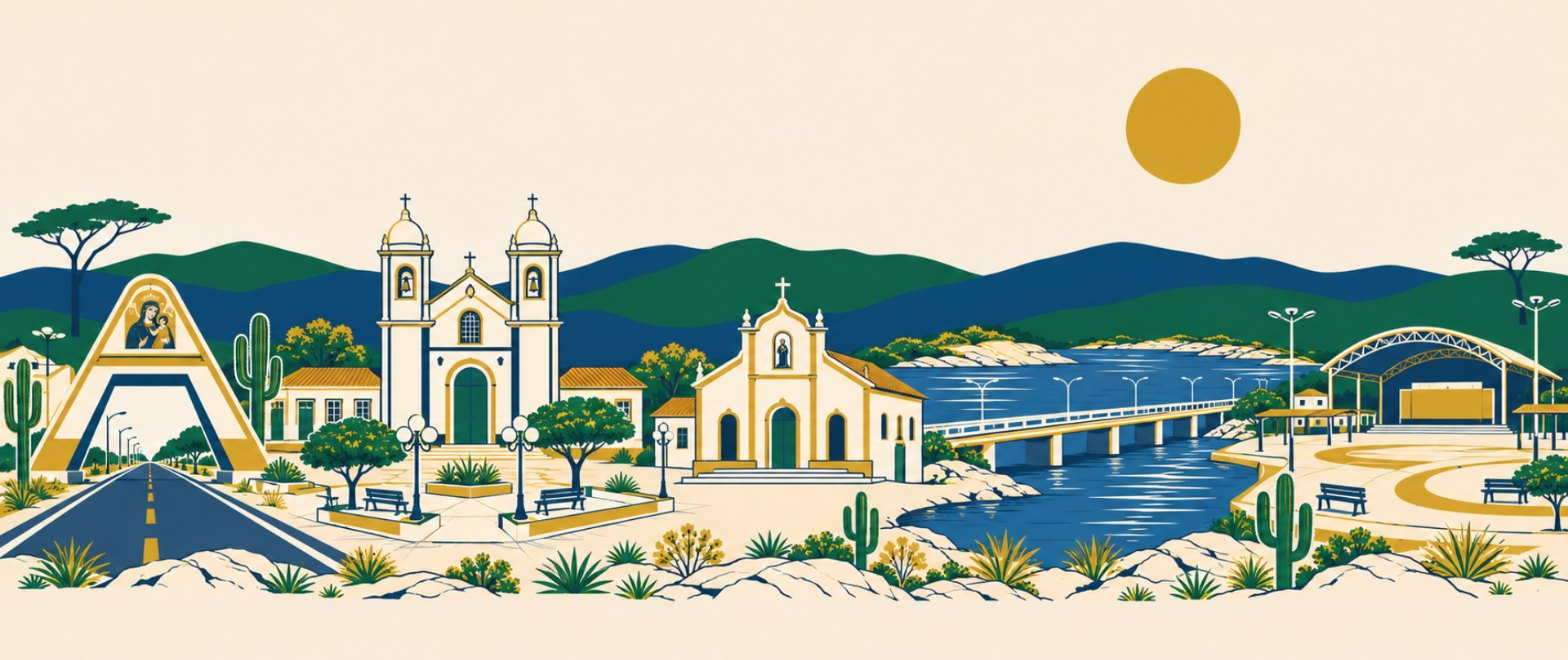
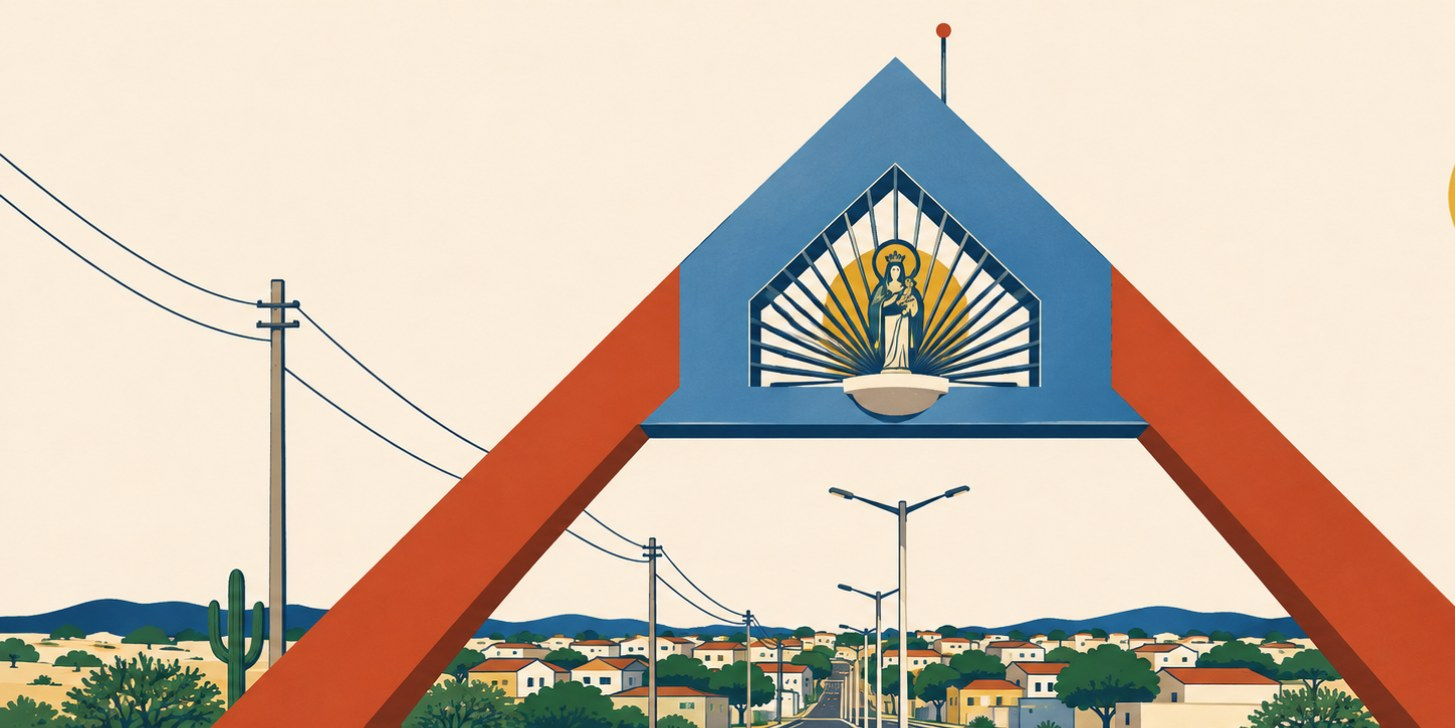
Capa: Arco da Santa
Claude-Session: https://claude.ai/code/session_01JV9M38XNXsCytRdJvPnJiu

diff --git a/assets/app.js b/assets/app.js
@@ -234,7 +234,7 @@
       <h1>O dinheiro é público.<span>A informação também.</span></h1>
       <p class="lead">${esc(X.intro)}</p>
       <div class="btns"><a class="btn solid" href="#/casos">Ver todos os casos</a><a class="btn" href="#/noticias">Notícias e análises</a><a class="btn azul" href="#/denuncie">Envie uma denúncia</a></div>
-      </div><div class="c5 heroart">${M ? '' : `<figure class="capa"><img src="img/cenas/capa-acopiara.jpg" alt="Ilustração de Acopiara: Arco da Santa, Igreja Matriz do Perpétuo Socorro, Igreja de São Francisco, Barragem Dr. Tibúrcio Soares e Polo de Lazer" width="1568" height="660"><figcaption>Arco da Santa · Matriz do Perpétuo Socorro · São Francisco · Barragem Dr. Tibúrcio Soares · Polo de Lazer</figcaption></figure>`}</div></div>${M ? `<div class="heroart m"><figure class="capa"><img src="img/cenas/capa-acopiara.jpg" alt="Ilustração de Acopiara: Arco da Santa, Igreja Matriz do Perpétuo Socorro, Igreja de São Francisco, Barragem Dr. Tibúrcio Soares e Polo de Lazer" width="1568" height="660"><figcaption>Arco da Santa · Matriz do Perpétuo Socorro · São Francisco · Barragem Dr. Tibúrcio Soares · Polo de Lazer</figcaption></figure></div>` : ''}
+      </div><div class="c5 heroart">${M ? '' : `<figure class="capa"><img src="img/cenas/capa-acopiara.jpg?v=13" alt="Ilustração do Arco da Santa, entrada de Acopiara, com a imagem de Nossa Senhora do Perpétuo Socorro" width="1455" height="728"><figcaption>Arco da Santa · entrada de Acopiara</figcaption></figure>`}</div></div>${M ? `<div class="heroart m"><figure class="capa"><img src="img/cenas/capa-acopiara.jpg?v=13" alt="Ilustração do Arco da Santa, entrada de Acopiara, com a imagem de Nossa Senhora do Perpétuo Socorro" width="1455" height="728"><figcaption>Arco da Santa · entrada de Acopiara</figcaption></figure></div>` : ''}
       <div class="stats">${(X.numeros || []).slice(0, 5).map(n => `<div class="stat"><b>${nb(n.valor)}</b><span>${esc(n.rotulo)}</span></div>`).join('')}</div>
     </div></section>
     <section class="block"><div class="wrap"><div class="sec-head"><div><div class="kicker">Comece por aqui</div><h2>Os casos que mais pesam no bolso de Acopiara</h2></div>${M ? '' : `<a class="btn ghost" href="#/casos">Todos os ${CASOS.length} casos</a>`}</div>

diff --git a/index.html b/index.html
@@ -17,7 +17,7 @@
 <meta name="apple-mobile-web-app-capable" content="yes">
 <link rel="preconnect" href="https://fonts.googleapis.com"><link rel="preconnect" href="https://fonts.gstatic.com" crossorigin>
 <link href="https://fonts.googleapis.com/css2?family=Fraunces:opsz,wght@9..144,600;9..144,800&family=Inter:wght@400;500;600;700&display=swap" rel="stylesheet">
-<link rel="stylesheet" href="assets/styles.css?v=12">
+<link rel="stylesheet" href="assets/styles.css?v=13">
 <link rel="icon" href="img/favicon.ico" sizes="48x48">
 <link rel="icon" href="img/favicon.svg" type="image/svg+xml">
 <link rel="icon" href="img/favicon-32.png" type="image/png" sizes="32x32">
@@ -93,10 +93,10 @@
   <div class="btns" style="margin-top:16px"><button class="btn ghost" id="sh-tema"><svg><use href="#i-tema"/></svg>Modo claro/escuro</button><button class="btn ghost" id="sh-app" hidden><svg><use href="#i-app"/></svg>Instalar</button><button class="btn ghost" id="sh-notif" hidden><svg><use href="#i-sino"/></svg>Notificações</button></div>
 </div></div>
 <div id="modal" class="modal" hidden></div>
-<script src="assets/doodles.js?v=12"></script>
-<script src="assets/scenes.js?v=12"></script>
-<script src="assets/cards.js?v=12"></script>
-<script src="assets/api.js?v=12"></script>
-<script src="assets/app.js?v=12"></script>
+<script src="assets/doodles.js?v=13"></script>
+<script src="assets/scenes.js?v=13"></script>
+<script src="assets/cards.js?v=13"></script>
+<script src="assets/api.js?v=13"></script>
+<script src="assets/app.js?v=13"></script>
 </body>
 </html>

diff --git a/sw.js b/sw.js
@@ -1,5 +1,5 @@
 // Service worker: funciona offline com o que já foi visto e recebe notificações.
-const V = 'at-v12';
+const V = 'at-v13';
 const CORE = ['./', 'index.html', 'assets/styles.css', 'assets/app.js', 'assets/api.js', 'assets/cards.js', 'assets/scenes.js', 'assets/doodles.js', 'img/favicon.svg', 'data/casos.json', 'data/site.json', 'data/noticias.json', 'data/perfis.json', 'data/dinheiro.json', 'data/processos.json'];
 self.addEventListener('install', e => { e.waitUntil(caches.open(V).then(c => Promise.all(CORE.map(u => c.add(u).catch(() => 0)))).then(() => self.skipWaiting())); });
 self.addEventListener('activate', e => { e.waitUntil(caches.keys().then(ks => Promise.all(ks.filter(k => k !== V).map(k => caches.delete(k)))).then(() => self.clients.claim())); });
